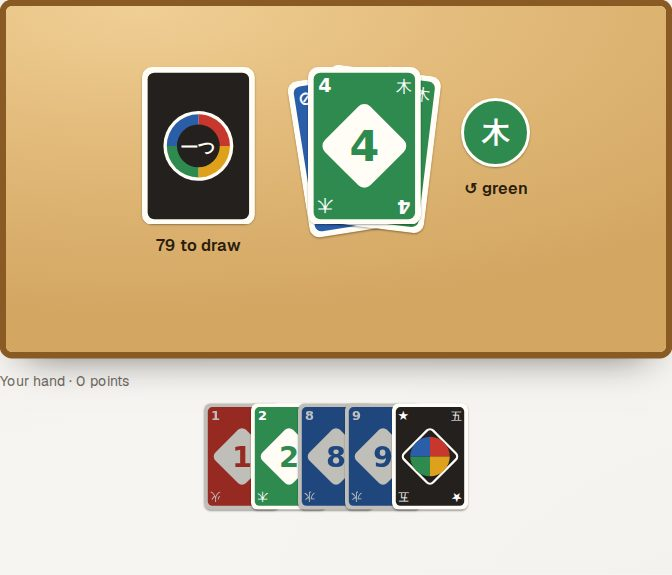
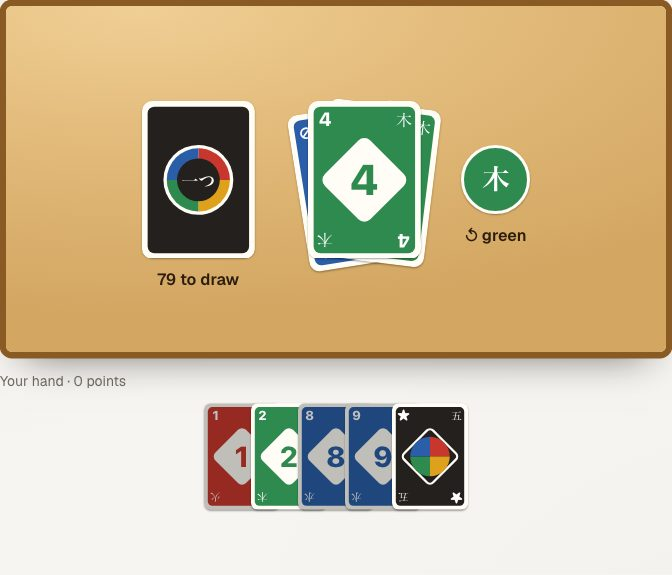
Hitotsu's stock, pile and colour sit in the middle of the table, with the words hanging below them

diff --git a/src/components/party/hitotsu/HitotsuTableTop.tsx b/src/components/party/hitotsu/HitotsuTableTop.tsx
@@ -10,11 +10,22 @@ import { HitotsuCardView, hitotsuCardLabel } from "./HitotsuCardView";
 const cqw = (value: number) => `${value}cqw`;
 /** A card on the table, in hundredths of the table's width, as the family card games lay theirs. */
 const CARD = 18;
+/**
+ * Where the cards' tops sit: the table is half as tall as it is wide, and a
+ * card is 18 × 25.2, so this puts the stock, the pile and the colour disc in
+ * the middle of the wood. The words under them hang below and are not counted.
+ */
+const ROW = 12.4;
+/** The colour disc's side, and its top: level with the middle of the cards. */
+const DISC = 11;
+const DISC_TOP = ROW + (CARD * 7) / 5 / 2 - DISC / 2;
 /** How the two cards under the top one lie, turned a little, so the pile reads as a pile. */
 const UNDER = [
-  { left: 44, top: 8, turn: -9 },
-  { left: 47.5, top: 7.5, turn: 7 },
+  { left: 44, top: ROW + 1, turn: -9 },
+  { left: 47.5, top: ROW + 0.5, turn: 7 },
 ] as const;
+/** Where the words under the cards begin. */
+const UNDER_CARDS = ROW + 27;
 
 /**
  * THE TABLE IN THE MIDDLE OF A GAME OF HITOTSU, on the reader's own wood as
@@ -31,11 +42,11 @@ export function HitotsuTableTop({ game, appearance }: { game: HitotsuGame; appea
   return (
     <CardTableSurface appearance={appearance}>
       {game.stock.length === 0 ? null : (
-        <span className="absolute block" style={{ left: cqw(19), top: cqw(7), width: cqw(CARD) }} data-testid="hitotsu-stock" role="img" aria-label="the stock, face down">
+        <span className="absolute block" style={{ left: cqw(19), top: cqw(ROW), width: cqw(CARD) }} data-testid="hitotsu-stock" role="img" aria-label="the stock, face down">
           <HitotsuCardView faceUp={false} />
         </span>
       )}
-      <TableWords left={13} top={34} width={30}>
+      <TableWords left={13} top={UNDER_CARDS} width={30}>
         {HITOTSU_COPY.stock(game.stock.length)}
       </TableWords>
       {under.map((card, at) => {
@@ -48,7 +59,7 @@ export function HitotsuTableTop({ game, appearance }: { game: HitotsuGame; appea
       })}
       <span
         className="absolute block"
-        style={{ left: cqw(45.5), top: cqw(7), width: cqw(CARD) }}
+        style={{ left: cqw(45.5), top: cqw(ROW), width: cqw(CARD) }}
         data-testid="hitotsu-discard"
         data-card={top}
         role="img"
@@ -58,7 +69,7 @@ export function HitotsuTableTop({ game, appearance }: { game: HitotsuGame; appea
       </span>
       <span
         className="absolute flex items-center justify-center rounded-full border-[0.5cqw] border-[#fffdf6] font-serif font-bold shadow-[0_1px_2px_rgba(0,0,0,0.35)] [font-size:4.4cqw]"
-        style={{ left: cqw(70), top: cqw(12), width: cqw(11), height: cqw(11), background: look.fill, color: look.ink }}
+        style={{ left: cqw(70), top: cqw(DISC_TOP), width: cqw(DISC), height: cqw(DISC), background: look.fill, color: look.ink }}
         data-testid="hitotsu-colour"
         data-colour={game.colour}
         role="img"
@@ -66,11 +77,11 @@ export function HitotsuTableTop({ game, appearance }: { game: HitotsuGame; appea
       >
         {look.element}
       </span>
-      <TableWords left={64} top={25} width={23} testId="hitotsu-direction">
+      <TableWords left={64} top={DISC_TOP + DISC + 2} width={23} testId="hitotsu-direction">
         {game.direction === 1 ? "↻" : "↺"} {colourWords(game.colour)}
       </TableWords>
       {game.pending > 0 ? (
-        <TableWords left={38.5} top={34} width={32} testId="hitotsu-pending">
+        <TableWords left={38.5} top={UNDER_CARDS} width={32} testId="hitotsu-pending">
           +{game.pending} waiting
         </TableWords>
       ) : null}

diff --git a/src/lib/party/partyArt.data.ts b/src/lib/party/partyArt.data.ts
@@ -7,4 +7,4 @@
  *
  *   pnpm screenshots:party
  */
-export const PARTY_ART_FINGERPRINT = "44e58b36e256b800";
+export const PARTY_ART_FINGERPRINT = "90c78b871bf1ee0a";
